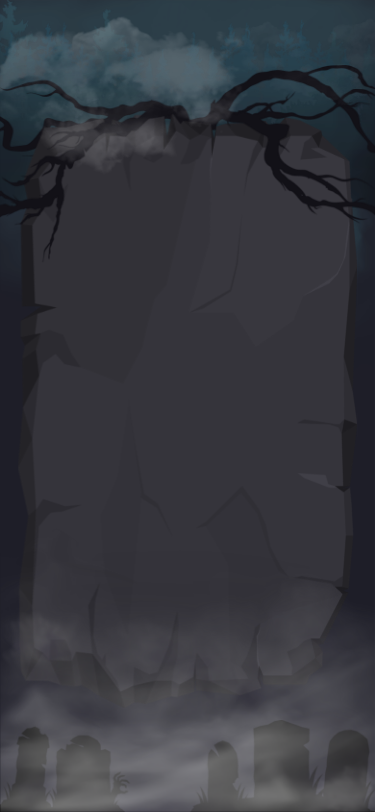
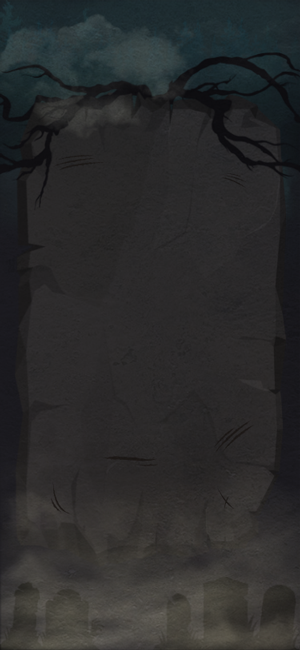
...

diff --git a/helloween/css/styles.css b/helloween/css/styles.css
@@ -125,7 +125,7 @@
 }
 
 .main-background {
-  background-image: url(../image/bpbackground.webp);
+  background-image: url(../image/pngWEB-BACKGROUND.png);
   height: 100vh;
   width: 100%;
   background-size: cover;
@@ -641,7 +641,7 @@
   }
   .treat-3-cards-detailed {
     max-width: 75% !important;
-    height: 42vh;
+    height: unset;
   }
   .index-helloween-img-title {
     position: absolute;

diff --git a/helloween/css/styles.scss b/helloween/css/styles.scss
@@ -118,7 +118,7 @@
       top: 0;
 }
 .main-background{
-  background-image: url(../image/bpbackground.webp);
+  background-image: url(../image/pngWEB-BACKGROUND.png);
   height: 100vh;
   width: 100%;
   
@@ -620,7 +620,7 @@
   }
   .treat-3-cards-detailed{
     max-width: 75% !important;
-    height: 42vh;
+    height: unset;
     
 }
 
